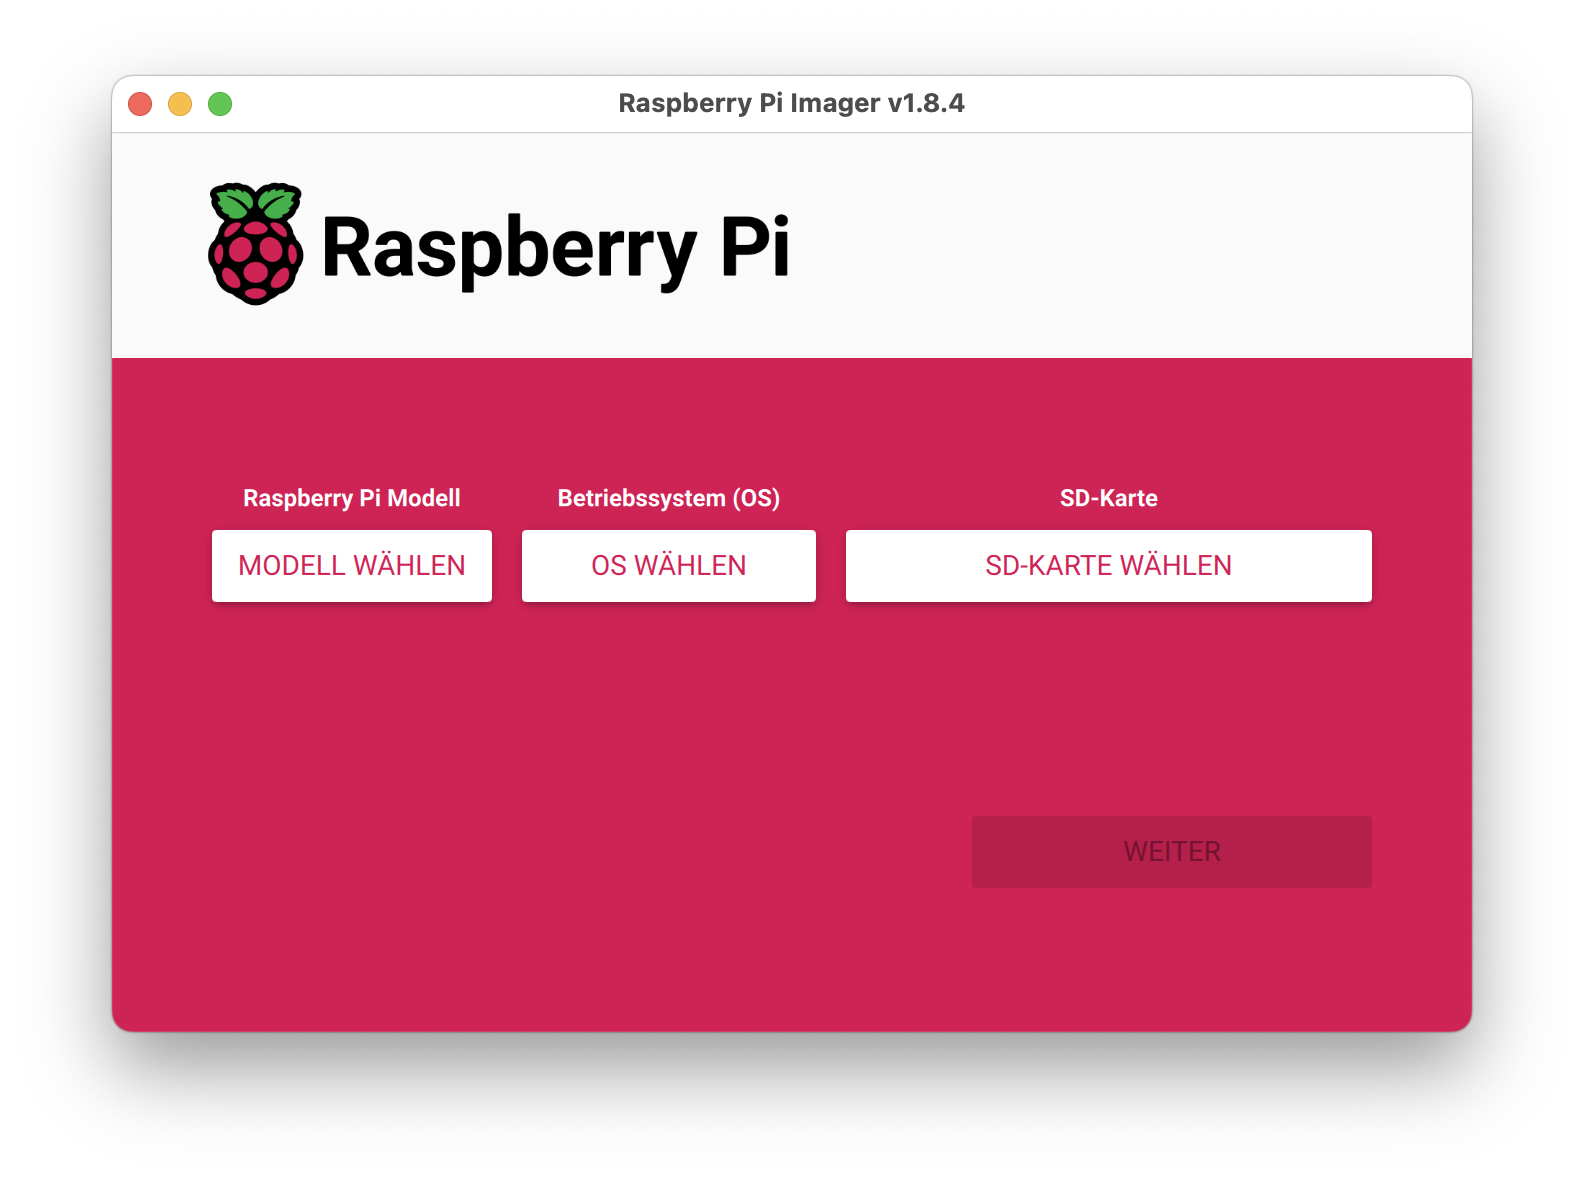
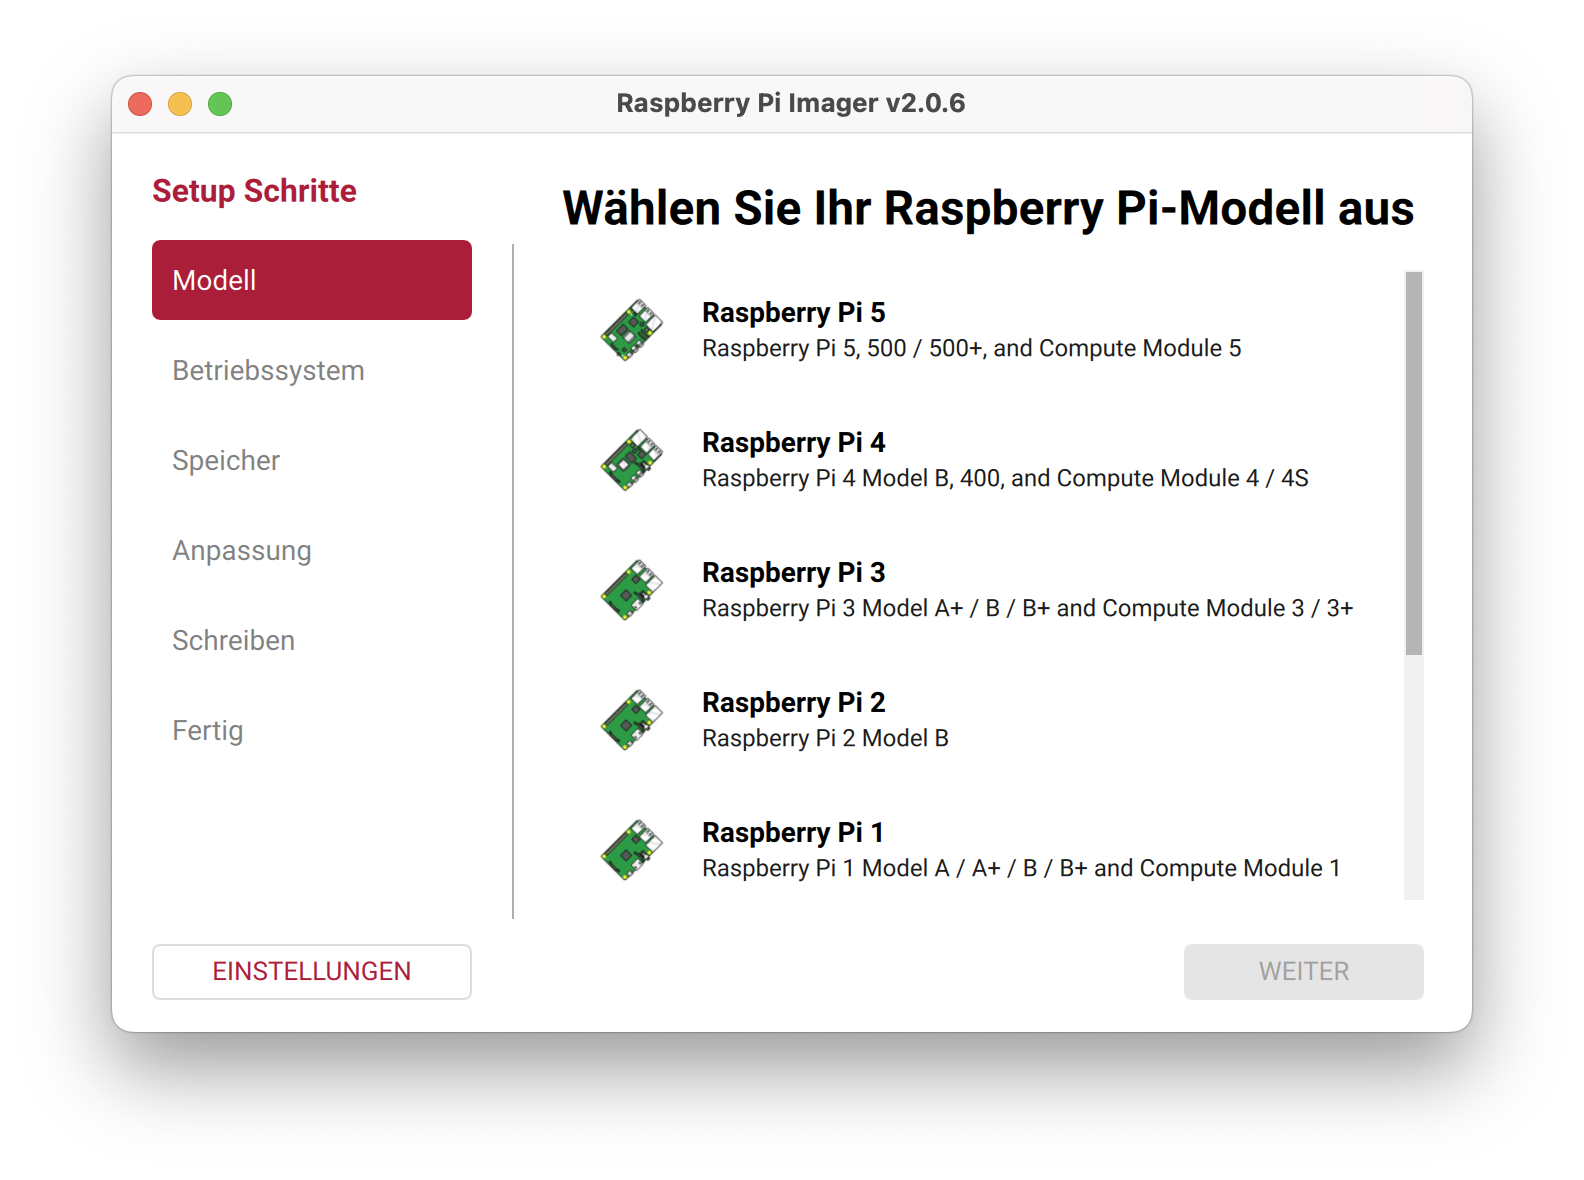
Update disk image copy instructions (german)

diff --git a/content/de/help/copy-the-disk-image/index.md b/content/de/help/copy-the-disk-image/index.md
@@ -5,7 +5,7 @@ authors:
   - Ralf Krause
 type: kb
 date: 2017-04-20
-lastmod: 2025-06-28
+lastmod: 2026-02-18
 description: Um das MoodleBox Disk-Image auf eine SD-Karte zu kopieren, laden Sie einfach den Raspberry Pi Imager herunter und folgen Sie diese Anweisungen.
 slug: disk-image-kopieren
 categories_weight: 4
@@ -14,27 +14,25 @@ categories:
 aliases:
   - ../dl
 ---
-Um das MoodleBox-Betriebssystem auf Ihre microSD-Karte zu kopieren, empfehlen wir den [Raspberry Pi Imager][imager]. Dieses Programm wird von der Raspberry Pi Foundation angeboten.
+Um das MoodleBox-Betriebssystem auf Ihre microSD-Karte zu kopieren, brauchen Sie [Raspberry Pi Imager][imager]. Dieses Programm wird von der Raspberry Pi Foundation angeboten.
 
 ### Vorgehensweise
 
 1. Laden Sie die neueste Version des [Raspberry Pi Imager][imager] herunter und installieren Sie es auf Ihrem Computer.
 1. Starten Sie das Programm _Raspberry Pi Imager_.
    {{< figure src="rpi-imager-de.png" alt="Raspberry Pi Imager" class="centered-image" width="700" >}}
-1. Klicken Sie unter _Raspberry Pi Modell_ auf __Modell wählen__ und wählen Sie Ihr Raspberry Pi Modell.
-1. Klicken Sie unter _Betriebssystem (OS)_ auf __OS wählen__, scrollen Sie nach unten und wählen Sie __Other specific purpose OS__ aus.
-1. Scrollen Sie nach unten, klicken Sie __MoodleBox__ aus und wählen Sie dann auf die Version des MoodleBox-Disk-Image.
-1. Klicken Sie auf __SD-Karte wählen__ und wählen Sie Ihre microSD-Karte aus.
-1. Klicken Sie auf __Weiter__, dann auf __Einstellungen bearbeiten__ im nächsten Dialog und beantworten Sie die Frage _Möchten Sie das Wifi-Passwort aus dem System-Schlüsselbund vorab ausfüllen?_ mit _Nein_.
-1. Auf dem Tab _Allgemein_ des nächsten Fensters geben Sie die Einstellungen an, die Sie für Ihre MoodleBox wünschen:
-   - Markieren Sie die Option __Hostname__ und geben Sie den __Hostnamen__ ein, z.B. _moodlebox_
-   - Markieren Sie die Option __Benutzername und Passwort festlegen__ und geben Sie den __Benutzernamen__ und das __Passwort__ ein, z.B. _moodlebox_ und _Moodlebox4$_
-   - Markieren Sie __nicht__ die übrigen Kästchen (_Wifi einrichten_ und _Spracheinstellungen festlegen_)
-   {{< figure src="rpi-imager-os-custom-de.png" alt="Einstellungen von Raspberry Pi Imager" class="centered-image" width="700" >}}
-1. Auf dem Tab _Dienste_ markieren Sie die Option __SSH aktivieren__ und die Option __Password zur Authentifizierung verwenden__
-1. Klicken Sie auf __Speichern__.
-1. Beantworten Sie __Ja__, wenn Sie aufgefordert werden, mit dem Löschen aller Daten auf der SD-Karte fortzufahren.
+1. Wählen Sie Ihr Raspberry Pi Modell, dann klicken Sie auf __Weiter__ um zum Tab __Betriebssystem__ zu gelangen, scrollen Sie nach unten und wählen Sie __Other specific-purpose OS__ aus.
+1. Scrollen Sie nach unten, klicken Sie __MoodleBox__ und wählen Sie dann die Version des MoodleBox-Disk-Image aus.
+1. Klicken Sie auf __Weiter__ zum Tab __Speicher__ und wählen Sie Ihre microSD-Karte aus.
+1. Klicken Sie auf __Weiter__ zum Tab __Anpassung__ und geben Sie die Einstellungen an, die Sie für Ihre MoodleBox wünschen:
+   - den __Hostnamen__, z.B. _moodlebox_,
+   - die Lokalisierungseinstellungen (Stadt, Zeitzone und Tastaturlayout),
+   - einen Benutzernamen und ein Passwort ein, z.B. _moodlebox_ und _Moodlebox4$_,
+   - optional die SSID und das Passwort Ihres lokalen WLAN-Netzwerks,
+   - aktivieren Sie SSH und klicken Sie auf das Optionsfeld __Passwort zur Authentifizierung verwenden__.
+1. Klicken Sie auf __Weiter__ zum Tab __Schreiben__, klicken Sie auf __Schreiben__, und wenn Sie aufgefordert werden, mit dem Löschen aller Daten auf der SD-Karte fortzufahren, Klicken Sie auf __Ich verstehe. Lösche und schreibe__.
+   {{< figure src="rpi-imager-warning-de.png" alt="Warnung Raspberry Pi Imager" class="centered-image" width="700" >}}
 
-Das Programm _Raspberry Pi Imager_ lädt jetzt die neueste Version des MoodleBox-Image herunter und kopiert es auf Ihre microSD-Karte. Der Vorgang dauert einige Minuten. Die Dauer hängt von Ihrer Internetverbindung und der microSD-Karte ab.
+Das Programm __Raspberry Pi Imager__ lädt jetzt die neueste Version des MoodleBox-Image herunter und kopiert es auf Ihre microSD-Karte. Der Vorgang dauert einige Minuten. Die Dauer hängt von Ihrer Internetverbindung und der microSD-Karte ab.
 
  [imager]: https://www.raspberrypi.com/software/

diff --git a/content/fr/help/copy-the-disk-image/index.md b/content/fr/help/copy-the-disk-image/index.md
@@ -13,15 +13,16 @@ categories:
 aliases:
   - ../dl
 ---
-Pour copier le système MoodleBox sur votre carte microSD, nous recommandons d'employer l'utilitaire [Raspberry Pi Imager][imager]. Ce programme est fourni par la Fondation Raspberry Pi.
+Pour copier le système MoodleBox sur votre carte microSD, on utilise le logiciel [Raspberry Pi Imager][imager]. Ce programme est fourni par la Fondation Raspberry Pi.
 
 ### Marche à suivre
 
 1. Télécharger la dernière version de l'utilitaire [Raspberry Pi Imager][imager] et l'installer sur l'ordinateur.
 1. Lancer l'application _Raspberry Pi Imager_.
    {{< figure src="rpi-imager-fr.png" alt="Raspberry Pi Imager" class="centered-image" width="700" >}}
-1. Sélectionner le modèle de votre Raspberry Pi, puis cliquer sur __Suivant__ pour accéder à l'onglet __OS__ et défiler vers le bas et cliquer __Other specific-purpose OS__.
-1. Défiler vers le bas, cliquer __MoodleBox__, choisir la dernière version de l'image-disque MoodleBox et cliquer __Suivant__ vers l'onglet __Stockage__ et sélectionner votre carte microSD.
+1. Sélectionner le modèle de votre Raspberry Pi, puis cliquer sur __Suivant__ pour accéder à l'onglet __OS__, défiler vers le bas et cliquer __Other specific-purpose OS__.
+1. Défiler vers le bas, cliquer __MoodleBox__, choisir la dernière version de l'image-disque MoodleBox.
+1. Cliquer __Suivant__ vers l'onglet __Stockage__ et sélectionner votre carte microSD.
 1. Cliquer __Suivant__ vers l'onglet __Personnalisation__, et spécifier les paramètres désirés pour votre MoodleBox dans les fenêtres suivantes :
    - le nom d'hôte, par exemple _moodlebox_,
    - les réglages de localisation (ville, fuseau horaire, clavier)

diff --git a/content/en/help/copy-the-disk-image/index.md b/content/en/help/copy-the-disk-image/index.md
@@ -14,7 +14,7 @@ aliases:
   - /download
   - ../dl
 ---
-To copy the MoodleBox system on your microSD card, we recommend to use the [Raspberry Pi Imager][imager] utility. This application is published by the Raspberry Pi Foundation.
+To copy the MoodleBox system on your microSD card, use the [Raspberry Pi Imager][imager] utility. This application is published by the Raspberry Pi Foundation.
 
 ### How to proceed
 
@@ -22,8 +22,9 @@ To copy the MoodleBox system on your microSD card, we recommend to use the [Rasp
 1. Launch the _Raspberry Pi Imager_ application.
    {{< figure src="rpi-imager-en.png" alt="Raspberry Pi Imager" class="centered-image" width="700" >}}
 1. Select your model of Raspberry Pi, then click __Next__ to the  _OS_ tab, scroll down and click __Other specific-purpose OS__.
-1. Scroll down, click __MoodleBox__, choose the latest MoodleBox disk image version and click __Next__ to the __Storage__ tab and select your microSD card.
-1. Click __Next__ to the __Customisation__ tab, and specify the settings you want for your MoodleBox in the following windows. Indicate, if needed
+1. Scroll down, click __MoodleBox__, choose the latest MoodleBox disk image version.
+1. Click __Next__ to the __Storage__ tab and select your microSD card.
+1. Click __Next__ to the __Customisation__ tab and specify the settings you want for your MoodleBox in the following windows. Indicate, if needed
    - the hostname, e.g. _moodlebox_,
    - the localisation settings (city, time zone and keyboard layout),
    - a username and a password, e.g. _moodlebox_ and _Moodlebox4$_,
